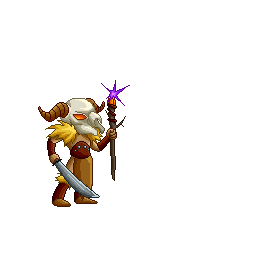
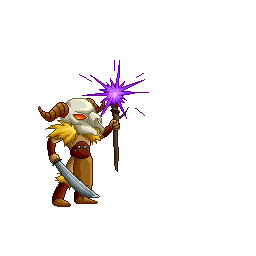
Add summoning phase to SecondBoss

Changed region(s): [[0.3125, 0.2188, 0.5625, 0.7188], [0.3125, 0.2812, 0.375, 0.3125]]

diff --git a/characters/level2/wizard_level2.py b/characters/level2/wizard_level2.py
@@ -5,7 +5,7 @@ from masters.second_boss_sprite_master import SecondBossSpriteMaster
 from scenes.scene_state import SceneState
 
 
-class Wizard(Enemy):
+class SecondBoss(Enemy):
 
     def __init__(self, game_screen, start_position, projectile: Projectile):
         super().__init__(game_screen, start_position, SecondBossSpriteMaster("levels/level2/wizard", 
@@ -18,6 +18,9 @@ class Wizard(Enemy):
         self.collision_distance = 90
         self.size = 220
 
+        # Flag indicating that the wizard has already passed the summoning phase
+        self.summoning_phase_done = False
+
         # Flag indicating that the wizard has already passed the shooting phase
         self.shooting_phase_done = False 
 
@@ -29,6 +32,9 @@ class Wizard(Enemy):
 
         # Flag indicating that the wizard has already passed the combat alert phase
         self.combat_alert_phase_done = False 
+
+        # Duration of the summoning phase in milliseconds 
+        self.summoning_duration = 1500
 
         # Duration of the shooting phase in milliseconds 
         self.shooting_duration = 5000
@@ -53,6 +59,9 @@ class Wizard(Enemy):
 
         # Elapsed time since last shot
         self.shot_elapsed_time = 0
+
+        # Flag that indicates if the wizard has already summoned within his summoning_phase
+        self.has_summoned = False
     
     def policy(self, scene_state: SceneState) -> str:
         """
@@ -90,11 +99,20 @@ class Wizard(Enemy):
             else:
                 self.combat_alert_phase_done = True
                 self.elapsed_time = 0
+        elif not self.summoning_phase_done:
+            if self.elapsed_time < self.combat_alert_duration:
+                return self.summon()
+            else:
+                self.summoning_phase_done = True
+                self.elapsed_time = 0
+                # The flag must be set on False here because there must be only one summoned creature during the phase
+                self.has_summoned = False
         else:
             self.shooting_phase_done = False
             self.close_combat_phase_done = False
             self.weakness_phase_done = False
             self.combat_alert_phase_done = False
+            self.summoning_phase_done = False
             self.elapsed_time = 0
 
         return "idle"
@@ -118,7 +136,6 @@ class Wizard(Enemy):
         # then update the elapsed time and check if it's bigger than the cooldown time 
         else:
             self.shot_elapsed_time += scene_state.get_elapsed_time()
-            print(f"elapsed time = {self.shot_elapsed_time}")
             # If the cooldown is over then return "fight" to begin a new attack
             # otherwise keep waiting
             if self.shot_elapsed_time >= self.distant_attack_cooldown:
@@ -143,6 +160,24 @@ class Wizard(Enemy):
     
     def be_alert(self):
         return "idle"
+    
+    def summon(self):
+
+        if self.current_action in ["summon", "commit_summoning"]:
+
+            if 3.0 <= self.sprite_master.frame_index and not self.has_summoned:
+                self.has_summoned = True
+                return "commit_summoning"
+            if not self.sprite_master.round_done:
+                return "summon"
+            else:
+                return "idle"
+        else:
+            if self.has_summoned:
+                return "idle"
+            else:
+                return "summon"
+        
     
     def get_projectile(self):
         """

diff --git a/scenes/scene03.py b/scenes/scene03.py
@@ -2,7 +2,7 @@ import pygame
 from scenes.scene00 import ScenePrelevel00
 from masters.save_master import SaveMaster
 from characters.level2.projectile_level2 import Projectile
-from characters.level2.wizard_level2 import Wizard
+from characters.level2.wizard_level2 import SecondBoss
 from tools import Video 
 class Scene03(ScenePrelevel00):
 
@@ -12,7 +12,7 @@ class Scene03(ScenePrelevel00):
         self.id = 103
         self.level = 2
         self.enemy_pos = pygame.Vector2(self.game_screen.get_width()*0.75, self.game_screen.get_height() * 0.5)
-        self.enemies = [Wizard(game_screen, self.enemy_pos.copy(), Projectile(game_screen, self.enemy_pos.copy()))]
+        self.enemies = [SecondBoss(game_screen, self.enemy_pos.copy(), Projectile(game_screen, self.enemy_pos.copy()))]
         self.platform_positions = [(450, 320), (180, 330)]
         self.scaled_width_platforms = 110
         self.platforms = []

diff --git a/scenes/scene04.py b/scenes/scene04.py
@@ -2,7 +2,7 @@ import pygame
 from scenes.scene00 import ScenePrelevel00
 from masters.save_master import SaveMaster
 from characters.level3.projectile_level3 import Projectile
-from characters.level3.wizard_level3 import Wizard
+from characters.level3.wizard_level3 import ThirdBoss
 from tools import Video 
 
 class Scene04(ScenePrelevel00):
@@ -13,7 +13,7 @@ class Scene04(ScenePrelevel00):
         self.id = 104
         self.level = 3
         self.enemy_pos = pygame.Vector2(self.game_screen.get_width()*0.75, self.game_screen.get_height() * 0.59)
-        self.enemies = [Wizard(game_screen, self.enemy_pos.copy(), Projectile(game_screen, self.enemy_pos.copy()))]
+        self.enemies = [ThirdBoss(game_screen, self.enemy_pos.copy(), Projectile(game_screen, self.enemy_pos.copy()))]
         self.platform_positions = [(450, 320), (180, 330)]
         self.scaled_width_platforms = 110
         self.platforms = []

diff --git a/scenes/scene02.py b/scenes/scene02.py
@@ -2,7 +2,7 @@ import pygame
 from scenes.scene00 import ScenePrelevel00
 from masters.save_master import SaveMaster
 from characters.level1.projectile_level1 import Projectile
-from characters.level1.wizard_level1 import Wizard
+from characters.level1.wizard_level1 import FirstBoss
 from tools import Video
 
 class Scene02(ScenePrelevel00):
@@ -13,7 +13,7 @@ class Scene02(ScenePrelevel00):
         self.id = 102
         self.level = 1
         self.enemy_pos = pygame.Vector2(self.game_screen.get_width()*0.75, self.game_screen.get_height() * 0.5)
-        self.enemies = [Wizard(game_screen, self.enemy_pos.copy(), Projectile(game_screen, self.enemy_pos.copy()))]
+        self.enemies = [FirstBoss(game_screen, self.enemy_pos.copy(), Projectile(game_screen, self.enemy_pos.copy()))]
         self.platform_positions = [(450, 320), (180, 330)]
         self.scaled_width_platforms = 110
         self.platforms = []

diff --git a/characters/level1/wizard_level1.py b/characters/level1/wizard_level1.py
@@ -5,7 +5,7 @@ from masters.first_boss_sprite_master import FirstBossSpriteMaster
 from scenes.scene_state import SceneState
 
 
-class Wizard(Enemy):
+class FirstBoss(Enemy):
 
     def __init__(self, game_screen, start_position, projectile: Projectile):
         super().__init__(game_screen, start_position, FirstBossSpriteMaster("levels/level1/wizard", 
@@ -118,7 +118,6 @@ class Wizard(Enemy):
         # then update the elapsed time and check if it's bigger than the cooldown time 
         else:
             self.shot_elapsed_time += scene_state.get_elapsed_time()
-            print(f"elapsed time = {self.shot_elapsed_time}")
             # If the cooldown is over then return "fight" to begin a new attack
             # otherwise keep waiting
             if self.shot_elapsed_time >= self.distant_attack_cooldown:

diff --git a/masters/second_boss_sprite_master.py b/masters/second_boss_sprite_master.py
@@ -34,7 +34,7 @@ class SecondBossSpriteMaster(FirstBossSpriteMaster):
             self.current_images = self.death_images
         elif action == 'block':
             self.current_images = self.block_images
-        elif action == "summon":
+        elif action == "summon" or action == "commit_summoning":
             self.current_images = self.summoning_images
         
 

diff --git a/characters/level3/wizard_level3.py b/characters/level3/wizard_level3.py
@@ -5,7 +5,7 @@ from masters.first_boss_sprite_master import FirstBossSpriteMaster
 from scenes.scene_state import SceneState
 
 
-class Wizard(Enemy):
+class ThirdBoss(Enemy):
 
     def __init__(self, game_screen, start_position, projectile: Projectile):
         super().__init__(game_screen, start_position, FirstBossSpriteMaster("levels/level3/wizard", 

diff --git a/game.py b/game.py
@@ -47,7 +47,7 @@ class Game:
 
         self.screen = pygame.display.set_mode((self.screen_width, self.screen_height))
 
-        scene = self.build_scene(99, True)
+        scene = self.build_scene(99, False)
         while True:
             scene.run()
             scene = self.build_scene(scene.getID(), scene.isDone())
